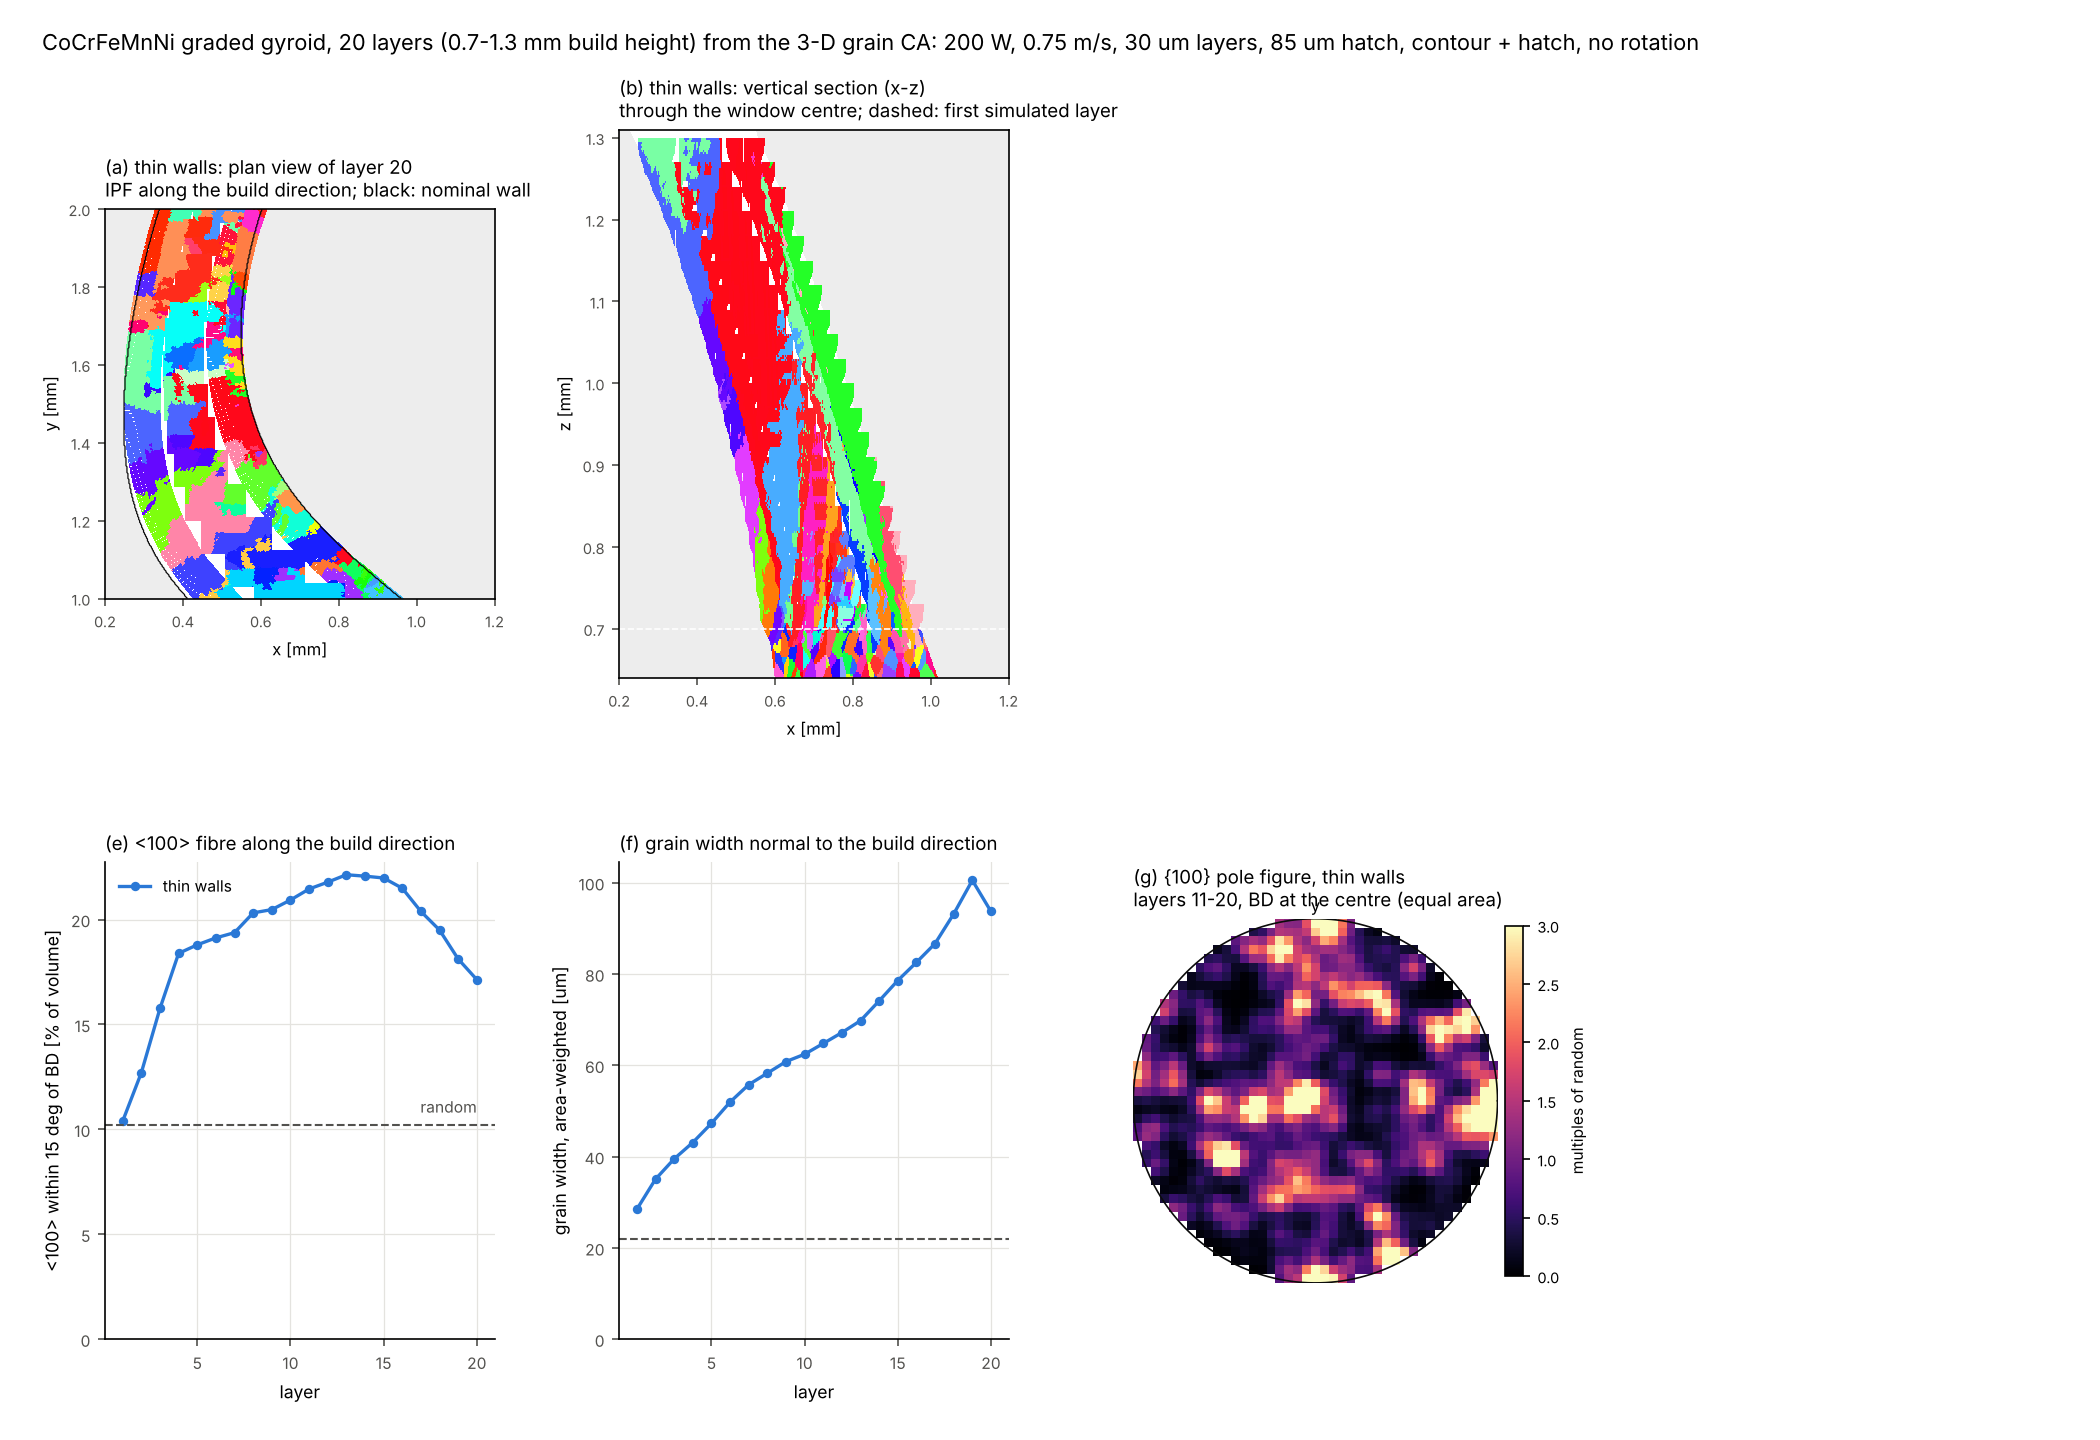
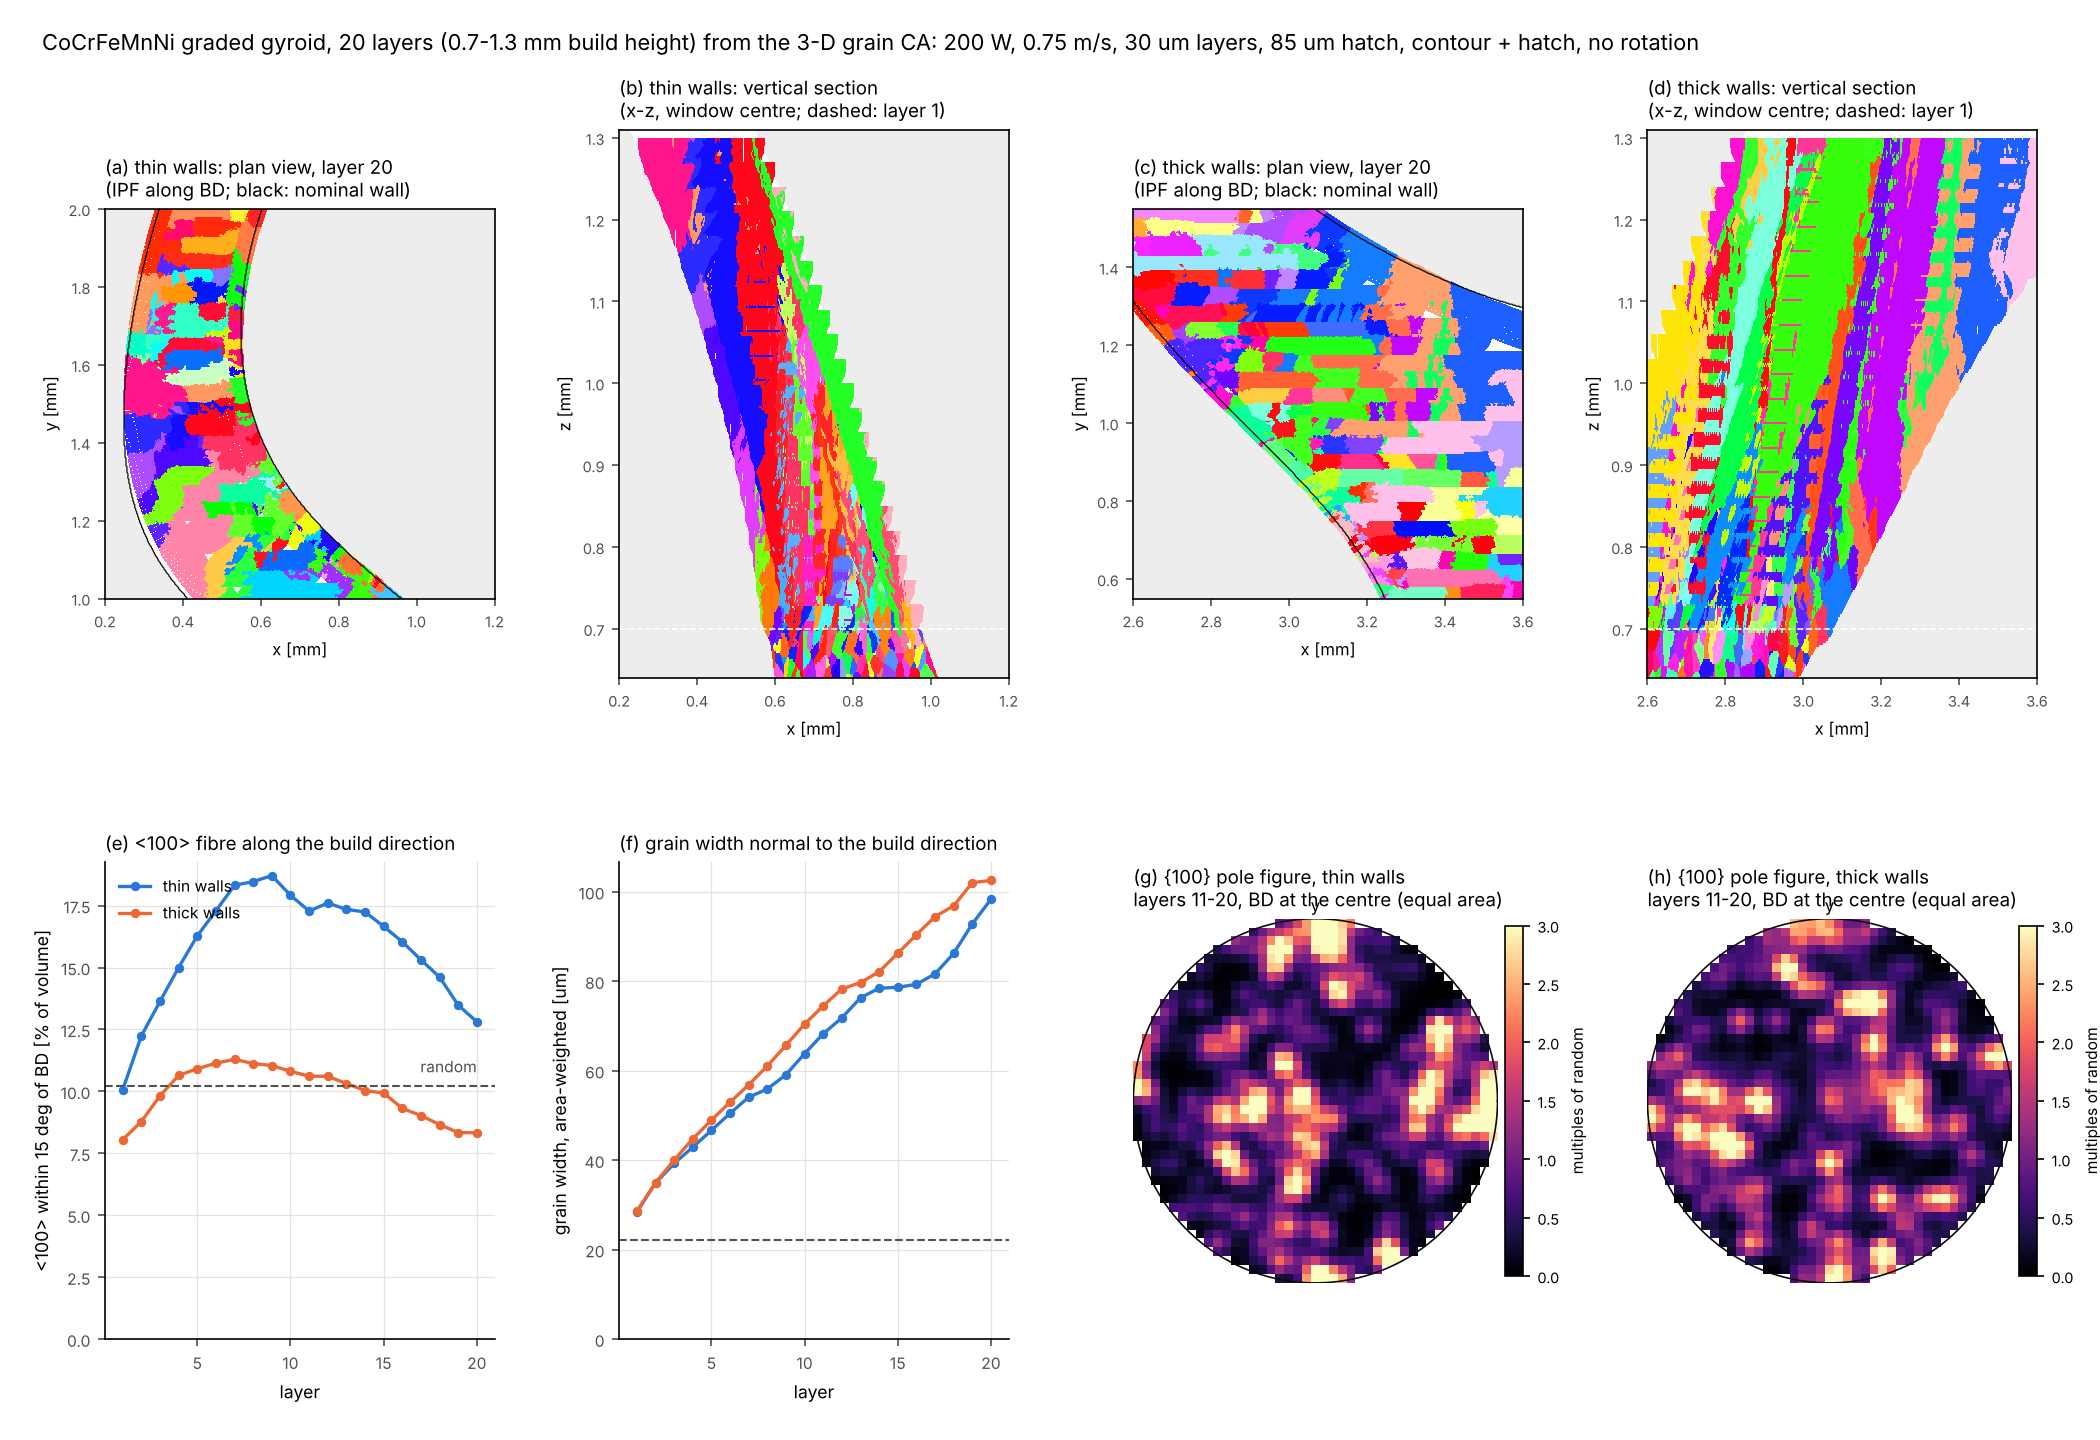
Docs 7.4: grains over 20 layers of the CoCrFeMnNi gyroid from the 3-D grain CA
Grain width grows from 28 to ~100 um in 20 layers in both thin and thick walls (the width is
resolution-independent). <100>||BD reaches 18 % in thin walls and stays at the random level
in thick walls. At 2.5 um cells this is a lower bound: the IN625 check shows that coarse
cells weaken selection.

Claude-Session: https://claude.ai/code/session_019xk7GSHCeHRKRYYELvB2ct

diff --git a/benchmarks/literature/cantor_gyroid_ca_figure.py b/benchmarks/literature/cantor_gyroid_ca_figure.py
@@ -30,8 +30,8 @@ def figure():
         ax.imshow(np.transpose(img, (1, 0, 2)), origin="lower", extent=[x0, x1, y0, y1], interpolation="nearest")
         ax.contour(np.linspace(x0, x1, part.shape[0]), np.linspace(y0, y1, part.shape[1]), part.T.astype(float), [0.5],
                    colors=[INK], linewidths=0.6)
-        ax.set_title(f"({'a' if col == 0 else 'c'}) {name} walls: plan view of layer {M.N_LAYERS}\n"
-                     f"IPF along the build direction; black: nominal wall", fontsize=9, loc="left")
+        ax.set_title(f"({'a' if col == 0 else 'c'}) {name} walls: plan view, layer {M.N_LAYERS}\n"
+                     f"(IPF along BD; black: nominal wall)", fontsize=9, loc="left")
         ax.set_xlabel("x [mm]", fontsize=8)
         ax.set_ylabel("y [mm]", fontsize=8)
         ax.tick_params(labelsize=7, colors=MUTED)
@@ -43,8 +43,8 @@ def figure():
         ax.imshow(np.transpose(img, (1, 0, 2))[::-1], extent=[x0, x1, zb, zb + xz.shape[1] * dx], interpolation="nearest",
                   aspect="auto")
         ax.axhline(M.Z_START, color="white", lw=0.8, ls="--")
-        ax.set_title(f"({'b' if col == 0 else 'd'}) {name} walls: vertical section (x-z)\nthrough the window centre; dashed: "
-                     f"first simulated layer", fontsize=9, loc="left")
+        ax.set_title(f"({'b' if col == 0 else 'd'}) {name} walls: vertical section\n(x-z, window centre; dashed: layer 1)",
+                     fontsize=9, loc="left")
         ax.set_xlabel("x [mm]", fontsize=8)
         ax.set_ylabel("z [mm]", fontsize=8)
         ax.tick_params(labelsize=7, colors=MUTED)

diff --git a/docs/process_models.md b/docs/process_models.md
@@ -935,3 +935,55 @@ ways. The statistics are over the lattice between 0.5 and 1.5 mm, after plate re
     validation most.
   * Multicomponent segregation.
 * **Ruled out.** Point-by-point exposure as the cause of the validation offset.
+
+### 7.4 Grains over 20 layers: 3-D grain cellular automaton
+
+**Question.** §7 grew grains for one layer only. The strong <001> build texture reported for
+LPBF CoCrFeMnNi needs many layers of competitive growth. How do grain size and texture
+develop over many layers, in thin and in thick walls?
+
+**Method** (`benchmarks/literature/cantor_gyroid_ca.py`). The 3-D grain CA of §5.4 builds 20
+layers (0.7–1.3 mm build height) of the graded gyroid in two 1 × 1 mm windows: thin walls
+(x = 0.2–1.2 mm) and thick walls (x = 2.6–3.6 mm).
+* **Process.** The settings of §7: 200 W, 0.75 m/s, 30 µm layers, 85 µm hatch, one contour,
+  no rotation, clipped to the part in every layer.
+* **Thermal history.** The steady validation track (powder layer on the plate; melts
+  52 µm below the powder top) is shifted along every scan vector.
+  * The pool ends are rounded where the laser switches on or off.
+  * Not included: the shorter pools of short vectors, preheating, and the deeper pool over
+    powder at down-facing surfaces. Powder that the pool reaches joins the part, with the
+    plate-pool shape.
+* **Grains.** The part below the first layer has random 20 µm grains. KGT kinetics of the
+  CrFeCo–(MnNi) pseudo-binary (40 wt%, k = 0.74, freezing range 60 K). No nucleation.
+  2.5 µm cells (43 M cells per window, about 45–65 min each).
+
+| | layer 1 | layer 5 | layer 10 | layer 20 |
+|---|---:|---:|---:|---:|
+| thin walls: grain width (area-weighted) | 28 µm | 47 µm | 64 µm | 98 µm |
+| thin walls: <100> within 15° of BD | 10 % | 16 % | 18 % | 13 % |
+| thick walls: grain width | 29 µm | 49 µm | 70 µm | 103 µm |
+| thick walls: <100> within 15° of BD | 8 % | 11 % | 11 % | 8 % |
+
+Random orientations give 10.2 %. The 20 µm starting grains give 22 µm.
+
+![gyroid grains over 20 layers](img/cantor_gyroid_ca.png)
+
+**Reading the results.**
+* **Grains coarsen steadily, whatever the wall thickness.** Epitaxy across layers makes the
+  grains columnar, crossing many layers. Their width grows from 28 µm to about 100 µm in
+  20 layers (0.6 mm) and has not levelled off. This width is resolution-independent: in the
+  IN625 blocks of §5.5, 1 and 2 µm cells give the same width within 10 %.
+* **The grain pattern follows the scan.** Without rotation, the grains in plan view are
+  elongated along the hatch direction, with boundaries on the 85 µm track spacing.
+* **Down-facing walls carry dross.** On the overhanging side of the inclined walls, each
+  layer's pool reaches into the powder below. This leaves a step of stray grains per layer:
+  the down-skin roughness of such walls.
+* **Texture is weak, and stronger in thin walls than in thick ones.**
+  * In the thin walls, <100> along BD rises to 18 % by layer 10. In the thick walls it stays
+    at the random level.
+  * The reason has not been checked. One candidate: in thin walls a larger share of the
+    melt comes from the contour track, whose pool follows the inclined wall.
+* **These texture numbers are lower bounds.** The IN625 resolution check (§5.5) shows that
+  coarse cells weaken orientation selection: 15 % at 2 µm against 35 % at 1 µm, at the same
+  grain width. The strong <001> fibre reported for LPBF CoCrFeMnNi therefore needs 1 µm cells
+  on the lattice. That is about 700 M cells for these windows, which needs the GPU.
